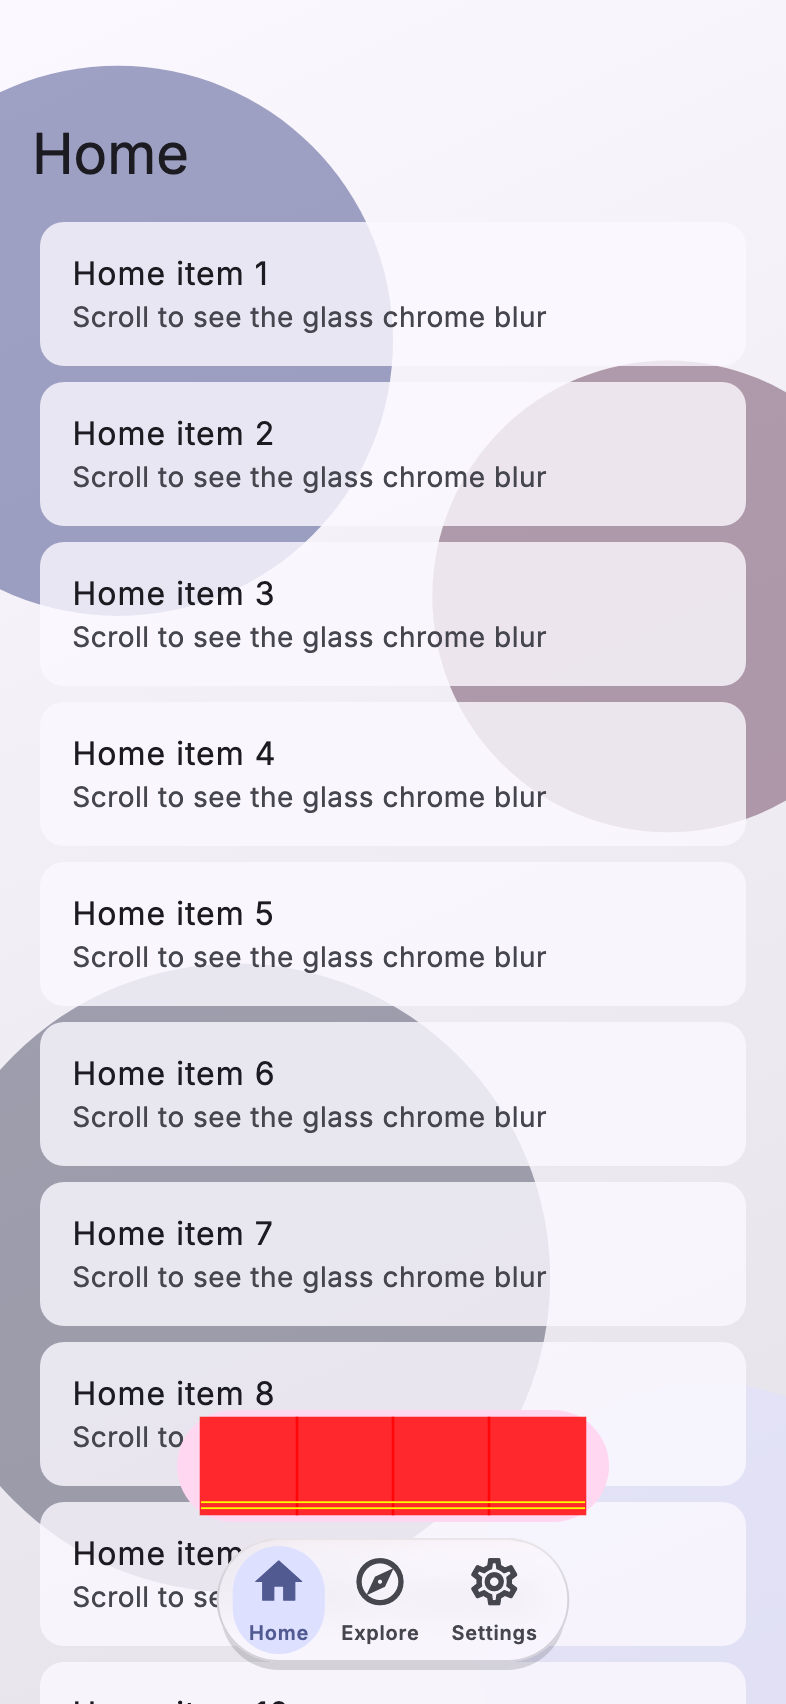
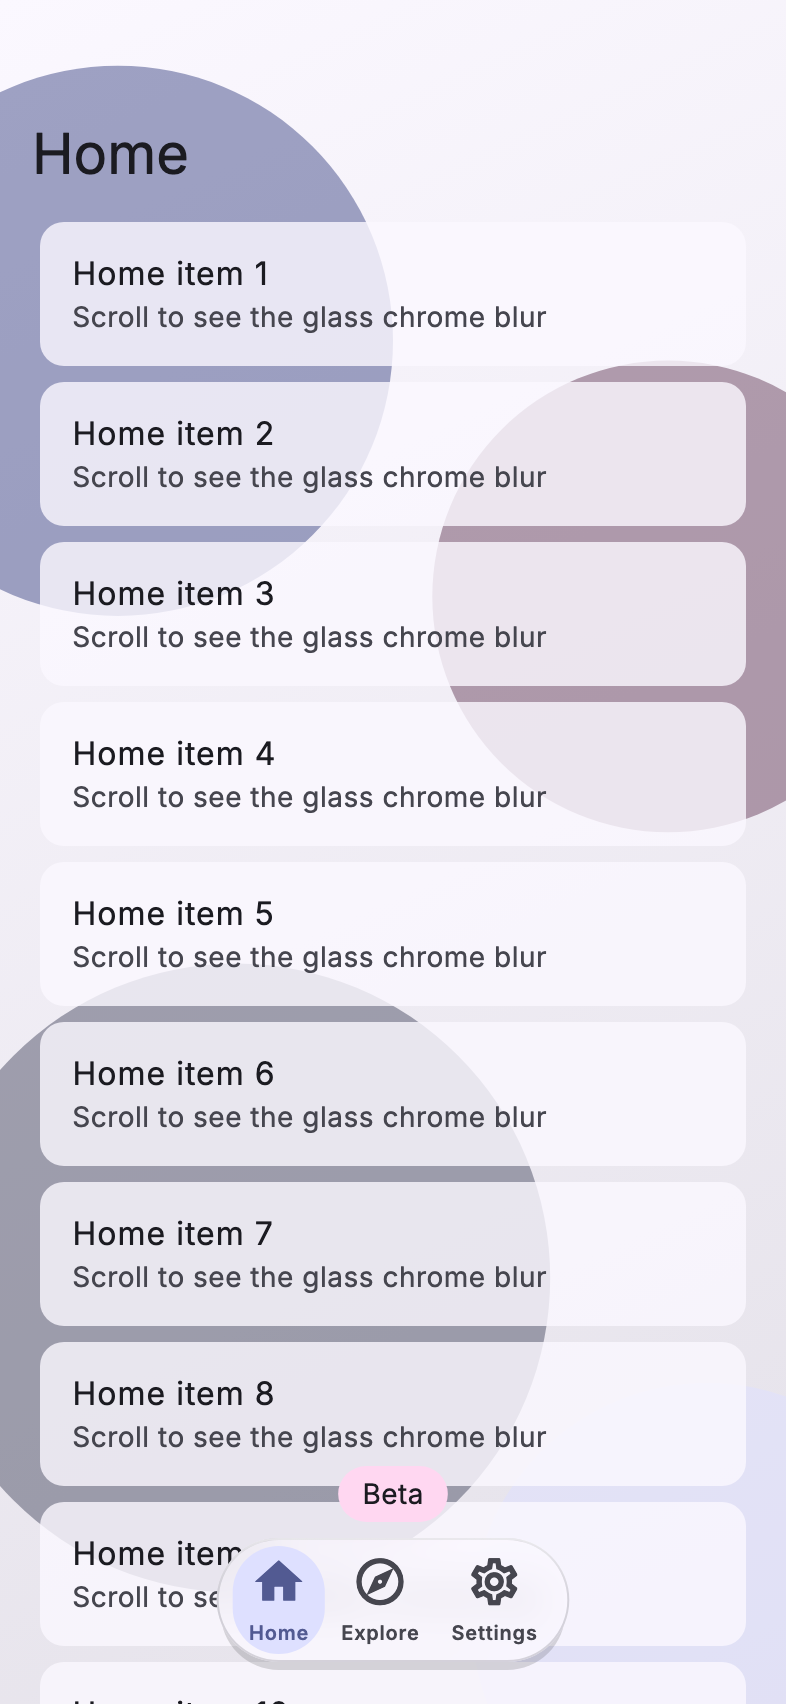
fix(shell): custom chrome inherits the shell's text style (VK-345)

Changed region(s): [[0.2443, 0.8087, 0.7939, 0.902]]

diff --git a/liquid_shell/test/widget/shell_chrome_test.dart b/liquid_shell/test/widget/shell_chrome_test.dart
@@ -770,6 +770,81 @@ void main() {
       expect(scopeOf(tester).chromeInsets, EdgeInsets.zero);
     });
 
+    // A chromeBuilder result has no Scaffold or Material of the app above
+    // it. Its text must still get the theme's style, like the default
+    // chrome, not MaterialApp's red, double-underlined fallback.
+    for (final (slot, size, padding) in [
+      (LiquidChromeSlot.tabBar, kPhone, const EdgeInsets.only(bottom: 34)),
+      (LiquidChromeSlot.sidebar, kTabletLandscape, _tablet),
+    ]) {
+      testWidgets('text in a custom ${slot.name} gets the theme text style', (
+        tester,
+      ) async {
+        await pumpShell(
+          tester,
+          TestShell(
+            chromeBuilder: (context, details, defaultChrome) =>
+                details.slot == slot
+                ? Text('custom ${slot.name}')
+                : defaultChrome,
+            // TestPage has no Material of its own; only chrome is checked.
+            pageBuilder: (_) => const SizedBox.expand(),
+          ),
+          size: size,
+          padding: padding,
+        );
+        final element = tester.element(find.text('custom ${slot.name}'));
+        final style = DefaultTextStyle.of(element).style;
+        final body = Theme.of(element).textTheme.bodyMedium!;
+        expect(style.debugLabel, isNot(contains('fallback style')));
+        expect(style.decoration, isNot(TextDecoration.underline));
+        expect(style.fontSize, body.fontSize);
+        expect(style.color, body.color);
+        expectNoFallbackText(tester);
+      });
+    }
+
+    // The standalone widgets bring their own transparent Material, so they
+    // work in a bare route with no Scaffold.
+    testWidgets('standalone tab bar and sidebar text outside a Material', (
+      tester,
+    ) async {
+      tester.view
+        ..devicePixelRatio = 1
+        ..physicalSize = kTabletLandscape;
+      addTearDown(tester.view.reset);
+      await tester.pumpWidget(
+        MaterialApp(
+          home: Row(
+            crossAxisAlignment: CrossAxisAlignment.start,
+            children: [
+              LiquidSidebar(
+                destinations: kDestinations,
+                selectedIndex: 0,
+                onDestinationSelected: (_) {},
+                header: const Text('Header'),
+                footer: const Text('Footer'),
+              ),
+              Expanded(
+                child: Align(
+                  alignment: Alignment.bottomCenter,
+                  child: LiquidTabBar(
+                    destinations: [kDestinations[0], kDestinations[1]],
+                    selectedIndex: 0,
+                    onDestinationSelected: (_) {},
+                  ),
+                ),
+              ),
+            ],
+          ),
+        ),
+      );
+      await tester.pumpAndSettle();
+      expect(find.text('Header'), findsOneWidget);
+      expect(find.text('Footer'), findsOneWidget);
+      expectNoFallbackText(tester);
+    });
+
     test('LiquidChromeDetails ==', () {
       void select(int _) {}
       void expand() {}

diff --git a/liquid_shell/example/test/support/golden_harness.dart b/liquid_shell/example/test/support/golden_harness.dart
@@ -123,6 +123,26 @@ Future<void> pumpGolden(
   await tester.pumpAndSettle();
 }
 
-/// Matches the doc image `liquid_shell/doc/images/<name>.png`.
-Matcher matchesDocImage(String name) =>
-    matchesGoldenFile('../../../doc/images/$name.png');
+/// Compares the app with the doc image `liquid_shell/doc/images/<name>.png`.
+///
+/// First fails when any [Text] is drawn in a fallback style (no `Material`
+/// or `DefaultTextStyle` above it), so a regenerated golden cannot record
+/// red, double-underlined text as the expected image.
+Future<void> expectDocImage(WidgetTester tester, String name) async {
+  final bad = <String>[
+    for (final element in find.byType(Text, skipOffstage: false).evaluate())
+      if (_isFallback(DefaultTextStyle.of(element).style))
+        (element.widget as Text).data ?? '<rich text>',
+  ];
+  expect(bad, isEmpty, reason: 'Text drawn in the fallback style in $name');
+  await expectLater(
+    find.byType(MaterialApp),
+    matchesGoldenFile('../../../doc/images/$name.png'),
+  );
+}
+
+/// The empty `DefaultTextStyle.fallback()` (no app at all) or MaterialApp's
+/// red, double-underlined "fallback style" (no `Material`).
+bool _isFallback(TextStyle style) =>
+    style == const TextStyle() ||
+    (style.debugLabel?.contains('fallback style') ?? false);

diff --git a/liquid_shell/lib/src/shell/liquid_shell.dart b/liquid_shell/lib/src/shell/liquid_shell.dart
@@ -118,6 +118,10 @@ class LiquidShell extends StatefulWidget {
 
   /// Replaces or wraps the default chrome per slot.
   ///
+  /// The result sits in a transparent `Material`, like the default chrome,
+  /// so its text gets the theme's `bodyMedium` style and ink splashes have a
+  /// target without a `Scaffold` above the shell.
+  ///
   /// The shell's accessibility support (semantics, 44pt hit targets, the
   /// large content viewer, the overlay's modal barrier) belongs to the
   /// default chrome. A replacement must provide its own.
@@ -433,8 +437,14 @@ class _LiquidShellState extends State<LiquidShell>
     Widget slot(LiquidChromeDetails details, Widget defaultChrome) {
       final builder = widget.chromeBuilder;
       if (builder == null) return defaultChrome;
-      return Builder(
-        builder: (context) => builder(context, details, defaultChrome),
+      // The same transparent Material the default chrome sits in: custom
+      // chrome has no Scaffold above it, so without one its Text would get
+      // MaterialApp's red fallback style and its InkWells no ink target.
+      return Material(
+        type: MaterialType.transparency,
+        child: Builder(
+          builder: (context) => builder(context, details, defaultChrome),
+        ),
       );
     }
 

diff --git a/liquid_shell/test/helpers/shell_harness.dart b/liquid_shell/test/helpers/shell_harness.dart
@@ -175,6 +175,22 @@ Future<void> resize(WidgetTester tester, Size size) async {
   await tester.pumpAndSettle();
 }
 
+/// Fails when any [Text] in the tree, offstage included, has no text style
+/// above it: the empty [DefaultTextStyle.fallback] (no app at all) or
+/// `MaterialApp`'s red, double-underlined "fallback style" (no `Material`).
+void expectNoFallbackText(WidgetTester tester) {
+  final bad = <String>[
+    for (final element in find.byType(Text, skipOffstage: false).evaluate())
+      if (_isFallback(DefaultTextStyle.of(element).style))
+        (element.widget as Text).data ?? '<rich text>',
+  ];
+  expect(bad, isEmpty, reason: 'Text drawn in the fallback style');
+}
+
+bool _isFallback(TextStyle style) =>
+    style == const TextStyle() ||
+    (style.debugLabel?.contains('fallback style') ?? false);
+
 /// The scope data seen by the page of [label].
 LiquidShellScopeData scopeOf(WidgetTester tester, [String label = 'Home']) =>
     LiquidShellScope.of(tester.element(find.byKey(ValueKey('list-$label'))));

diff --git a/liquid_shell/example/test/goldens/form_factors_test.dart b/liquid_shell/example/test/goldens/form_factors_test.dart
@@ -1,7 +1,6 @@
 @Tags(['golden'])
 library;
 
-import 'package:flutter/material.dart';
 import 'package:flutter_test/flutter_test.dart';
 import 'package:liquid_shell_example/cases/basic_tabs.dart';
 
@@ -13,7 +12,7 @@ void main() {
     final name = 'ff_${device.name}';
     testWidgets(name, (tester) async {
       await pumpGolden(tester, const BasicTabsCase(), device: device);
-      await expectLater(find.byType(MaterialApp), matchesDocImage(name));
+      await expectDocImage(tester, name);
     });
   }
 
@@ -21,9 +20,6 @@ void main() {
     await pumpGolden(tester, const BasicTabsCase(), device: ipadPortrait);
     await tester.tap(find.byTooltip('Show sidebar'));
     await tester.pumpAndSettle();
-    await expectLater(
-      find.byType(MaterialApp),
-      matchesDocImage('ff_ipad_portrait_sidebar_open'),
-    );
+    await expectDocImage(tester, 'ff_ipad_portrait_sidebar_open');
   });
 }

diff --git a/liquid_shell/example/test/goldens/cases_test.dart b/liquid_shell/example/test/goldens/cases_test.dart
@@ -33,7 +33,7 @@ void main() {
       await interact();
       await tester.pumpAndSettle();
     }
-    await expectLater(find.byType(MaterialApp), matchesDocImage(name));
+    await expectDocImage(tester, name);
   }
 
   testWidgets('case_basic', (tester) async {

diff --git a/liquid_shell/example/test/goldens/hero_test.dart b/liquid_shell/example/test/goldens/hero_test.dart
@@ -18,7 +18,7 @@ void main() {
           device: device,
           brightness: brightness,
         );
-        await expectLater(find.byType(MaterialApp), matchesDocImage(name));
+        await expectDocImage(tester, name);
       });
     }
   }

diff --git a/docs/specs/2026-10-08-p1-foundation-design.md b/docs/specs/2026-10-08-p1-foundation-design.md
@@ -498,6 +498,7 @@ class LiquidChromeDetails {
 ```
 
 - The shell calls `chromeBuilder` once per visible slot, passing the widget it would have drawn as `defaultChrome`. Apps can wrap it or ignore it.
+- The builder's result is placed in a `Material(type: MaterialType.transparency)`, the same wrapper the default chrome uses, so its text gets the theme's `bodyMedium` style instead of `MaterialApp`'s red fallback style, and ink has a target (amended 2026-10-09, Task 14: the custom chrome case drew "Beta" in the fallback style).
 - Placement does not change. The tab-bar slot is aligned to the bottom (`bottomBar`) or the top (`topBar`, toggle included) and is **measured**, so `chromeInsets` stay correct for custom bars. The sidebar slot gets tight width `sidebarWidth` and full height.
 - `chromeBuilder` cannot move or reparent `body` (§5.6).
 
@@ -963,7 +964,7 @@ TDD applies to every task (red → green → commit), with per-task review and a
 - **Semantics:** labels, `selected`, the minimised hint, the toggle and hide tooltips from `strings`, barrier label, AX text scale 2.0 → icon-only with a label in semantics and long press → large content viewer.
 - **System back** with the overlay shown closes it (Q10).
 - **Outside shadow:** pixel-capture test ported from `glass_surface_test.dart:258-300`.
-- **Custom chrome:** `chromeBuilder` receives `defaultChrome` and correct details per slot; a custom bar of height 100 is measured into `chromeInsets`; a custom bar of height 0 yields zero insets.
+- **Custom chrome:** `chromeBuilder` receives `defaultChrome` and correct details per slot; a custom bar of height 100 is measured into `chromeInsets`; a custom bar of height 0 yields zero insets. Plain `Text` returned by the builder, in either slot, gets the theme's `bodyMedium` style, not the fallback style; standalone `LiquidTabBar` and `LiquidSidebar` text has no fallback style outside a `Material`. Every golden first fails if any `Text` resolves to a fallback style.
 - **Narrow widths (Q17):** at 320×568 with 5 tabs + trailing every cell is ≥ 44pt wide inside the real shell; 375 keeps margin 16 and padding 8; 339 is narrow and 340 is not; RTL mirrors it; standalone `LiquidTabBar` follows `narrow` and the `MediaQuery` default.
 - **Narrow labels (Q18):** at 320 a label that fits after taking the side padding draws at its own size with no ellipsis; at text scale 1.3 a label shrinks to fit and stays ≥ 10pt; a label too long at 10pt ellipsizes at exactly 10pt; the selected label fits; regular width keeps padding 8 and ellipsizes at the style's size; RTL behaves the same. In the example (Inter, iPhone, 320pt shell) all five labels of `NarrowWidthCase` fit untruncated at ≥ 10pt, selected or not.
 

diff --git a/liquid_shell/README.md b/liquid_shell/README.md
@@ -430,6 +430,9 @@ it and draw your own; the shell still places and measures the slot, so
 `chromeInsets` follow your bar, and a bar that collapses to 0pt adds no
 inset. `LiquidTabBar` and `LiquidSidebar` are public for building your own
 (see [Standalone tab bar and sidebar](#standalone-tab-bar-and-sidebar)).
+The builder's result sits in a transparent `Material`, like the default
+chrome, so plain `Text` gets the theme's `bodyMedium` style and an `InkWell`
+has somewhere to splash, with no `Scaffold` above the shell.
 
 <?code-excerpt "custom_chrome.dart (readme)"?>
 ```dart
